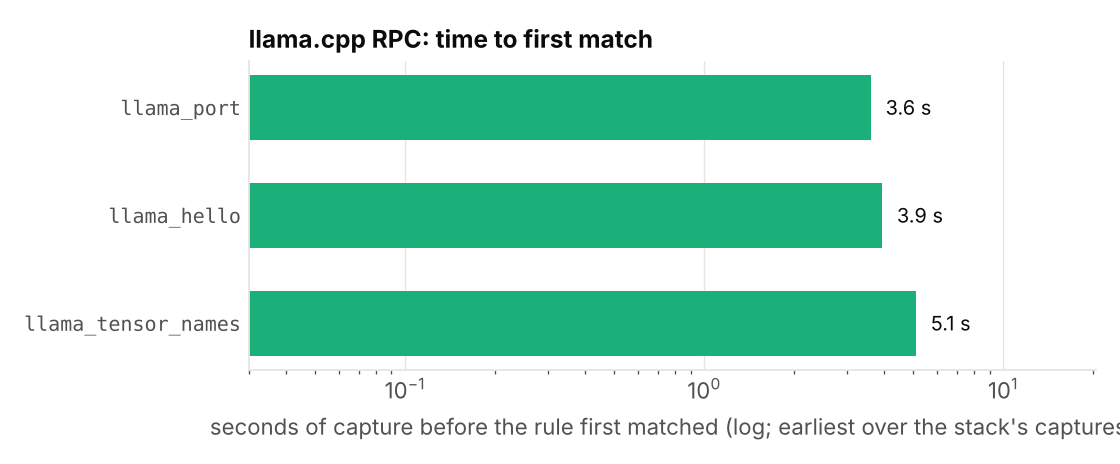
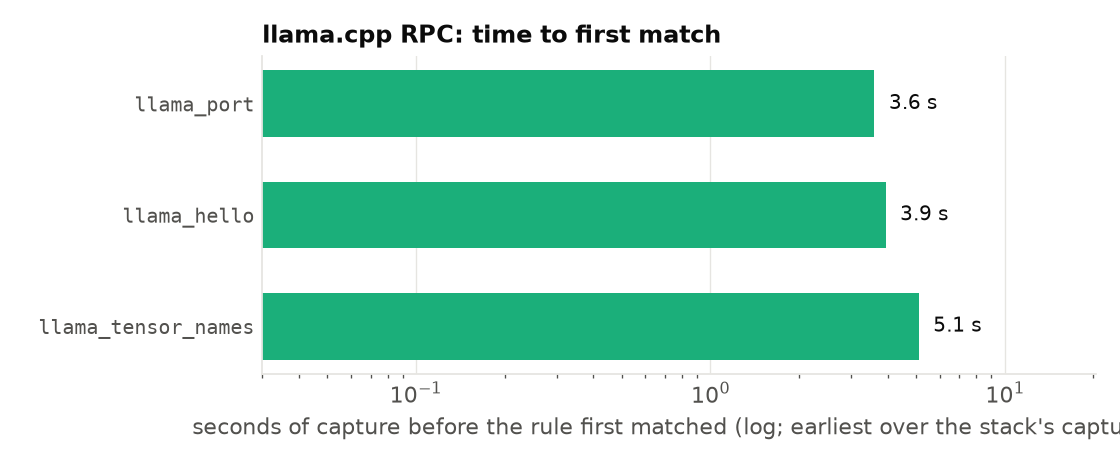
docs: fact correction on referenced data. And updated plots for allignment issues

diff --git a/figures.py b/figures.py
@@ -30,6 +30,7 @@ import matplotlib
 matplotlib.use("Agg")
 import matplotlib.pyplot as plt  # noqa: E402
 from matplotlib.lines import Line2D  # noqa: E402
+from matplotlib.transforms import offset_copy  # noqa: E402
 
 OUT = "figures"
 os.makedirs(OUT, exist_ok=True)
@@ -244,10 +245,19 @@ def flow_rows(stack, r):
             if kind == "elsewhere" or sum(f["payload_ab"] + f["payload_ba"] for f in fl) >= 10_000]
 
 
-def phase_strip(ax, tl, t0, t_end, x0, x1):
-    """Phases as alternating shading with staggered labels above the axes."""
+PHASE_ROW_PT = 11          # height of one row of phase labels above the axes, in points
+
+
+def phase_strip(ax, tl, t0, t_end, x0, x1) -> int:
+    """Phases as alternating shading with horizontal labels above the axes; a label that
+    would run into the one before it goes up a row. Returns the number of rows, so the
+    title can clear them. Call after the layout is settled: it measures rendered text."""
     if not tl:
-        return
+        return 0
+    fig = ax.figure
+    renderer = fig.canvas.get_renderer()
+    base = ax.get_xaxis_transform()
+    row_ends = []              # right edge, in pixels, of the last label in each row
     for i, (t, ph) in enumerate(tl):
         t1 = tl[i + 1][0] if i + 1 < len(tl) else t0 + t_end
         a, b = max(t - t0, x0), min(t1 - t0, x1)
@@ -255,8 +265,14 @@ def phase_strip(ax, tl, t0, t_end, x0, x1):
             continue
         if i % 2 == 0:
             ax.axvspan(a, b, color=SHADE, lw=0, zorder=0)
-        ax.text(a + 0.004 * (x1 - x0), 1.01, ph, transform=ax.get_xaxis_transform(),
-                fontsize=7.5, color=INK2, ha="left", va="bottom", rotation=45)
+        txt = ax.text(a, 1.01, ph, transform=base, fontsize=7.5, color=INK2, ha="left", va="bottom")
+        box = txt.get_window_extent(renderer)
+        row = next((k for k, end in enumerate(row_ends) if box.x0 > end + 4), len(row_ends))
+        if row == len(row_ends):
+            row_ends.append(0)
+        row_ends[row] = box.x1
+        txt.set_transform(offset_copy(base, fig=fig, y=row * PHASE_ROW_PT, units="points"))
+    return len(row_ends)
 
 
 def fig_timeline(stack, stamp, r, tl, name=None, window=None):
@@ -287,11 +303,10 @@ def fig_timeline(stack, stamp, r, tl, name=None, window=None):
         n = len(fl)
         ax.text(-0.01, y, f"{label}  ({n} conn, {tot/1e6:.1f} MB)" if n > 1 else f"{label}  ({tot/1e6:.2f} MB)",
                 ha="right", va="center", fontsize=8.5, color=INK, transform=ax.get_yaxis_transform())
-    phase_strip(ax, tl, t0, r["duration"], x0, x1)
     ax.set_yticks([])
     ax.set_ylim(-0.8, len(rows) - 0.2)
     ax.set_xlim(x0, x1)
-    note = {"exo": "exo nodes speak IPv6 link-local (control) and IPv4 (data), so each node appears under two numbers",
+    note = {"exo": "exo nodes speak IPv6 link-local (control) and IPv4 (data),\nso each node appears under two numbers",
             "llamacpp": "hosts of a restarted or second cluster are numbered (2), (3)",
             "localai": "hosts of the second cluster are numbered (2)"}.get(stack, "")
     ax.set_xlabel("seconds from the start of the capture; thickness ~ log bytes; on data rows | FIN, x RST" + ("\n" + note if note else ""))
@@ -302,6 +317,9 @@ def fig_timeline(stack, stamp, r, tl, name=None, window=None):
     handles = [Line2D([], [], color=STACK[stack], lw=4, label="data plane"), Line2D([], [], color=INK2, lw=4, label="control plane"),
                Line2D([], [], color="#9b9a94", lw=4, label="discovery, DNS, other"), Line2D([], [], color=INK, lw=4, label="off the LAN")]
     fig.legend(handles=handles, loc="lower center", ncol=4, frameon=False, fontsize=8, bbox_to_anchor=(0.5, 0.0))
+    fig.tight_layout(rect=(0, 0.05, 1, 1))
+    rows_used = phase_strip(ax, tl, t0, r["duration"], x0, x1)
+    ax.set_title(ax.get_title(loc="left"), loc="left", fontsize=11, fontweight="bold", pad=8 + PHASE_ROW_PT * rows_used)
     fig.tight_layout(rect=(0, 0.05, 1, 1))
     fig.savefig(f"{OUT}/{name or 'timeline-' + stack}.png", metadata=META)
     plt.close(fig)

diff --git a/README.md b/README.md
@@ -77,9 +77,11 @@ Captures: ten with a swarm, three background. The headline ones are
 `captures/llamacpp/20261030-083513` (600 s idle, kill and pause mid-request),
 `captures/exo/20261028-125140`, `captures/localai/20261029-144115` (DHT off, with
 loopback captures inside the containers) and `captures/localai/20261029-151923` (DHT on),
-and `captures/background/20261028-081447`. Every capture after the first ran with no
+and `captures/background/20261028-081447`. Every capture after the first two ran with no
 kernel drops; the first (`25691027-122003`, a 1.7 GB pcap with tcpdump's default buffer)
-dropped 7% of packets and its byte figures are from TCP sequence accounting.
+dropped 7% of packets and its byte figures are from TCP sequence accounting, and the
+first background run (`20261027-163430`, 55 GB, generators unthrottled) dropped 81% and
+was replaced by the LAN-rate set.
 
 ## 2. Static signatures: how little capture identifies the stack
 
@@ -95,8 +97,8 @@ dropped 7% of packets and its byte figures are from TCP sequence accounting.
 | llama.cpp | `llama_port` | 3.78 | TCP on 50052 |
 | llama.cpp | `llama_hello` | 4.16 (0.5 s after `cluster.sh main`) | the 33-byte HELLO, on the wire as three segments of 1, 8 and 24 bytes |
 | llama.cpp | `llama_tensor_names` | 5.36 | `blk.N.` names in the weight upload |
-| LocalAI | `mdns_libp2p` | 3.89 | an mDNS answer carrying `dnsaddr=/ip4/…/p2p/12D3KooW…` |
-| LocalAI | `libp2p_quic_alpn` | 4.19 | two client QUIC Initials of 1200 B whose ClientHello offers ALPN `libp2p`, no SNI |
+| LocalAI | `mdns_libp2p` | 4.10 | an mDNS answer carrying `dnsaddr=/ip4/…/p2p/12D3KooW…` |
+| LocalAI | `libp2p_quic_alpn` | 4.46 | two client QUIC Initials of 1200 B whose ClientHello offers ALPN `libp2p`, no SNI |
 | LocalAI, DHT on | `libp2p_multistream` | 5.01 | `/multistream/1.0.0` then `/tls` or `/noise`, on TCP to a public peer |
 | background | none of the stack rules | | `mdns` fires and is classed ordinary |
 
@@ -255,7 +257,7 @@ The fifteen predictions in [STUDY.md](STUDY.md), as written before the first cap
 | 5 | llama.cpp identified by the 33-byte HELLO on 50052; frame grammar and tensor names otherwise | HELLO at 4.2 s as 1 + 8 + 24 bytes; grammar and names as predicted; no false positives | right, with a correction of form |
 | 6 | llama.cpp invisible when idle | zero payload on the RPC flows for 600 s | right |
 | 7 | star; ~4 KiB each way per host, ~600 KB logits back from the last host; constant within 5%; rate within 10% | star; 16 KB / 4104 B and 7170 B / 607 752 B; cv 0.0 at the token scale; rate within 3% | right on shape and rate, the small legs 2 to 4 times larger (7 SET_TENSOR per token) |
-| 8 | load moves ~320 MB to each host | 252 MB and 385 MB, the whole file, split unevenly by the tied embedding | right in total, wrong in split |
+| 8 | load moves ~320 MB to each host | 252 MB and 384 MB, the whole file, split unevenly by the tied embedding | right in total, wrong in split |
 | 9 | LocalAI shows the libp2p handshake and nothing readable after; loopback shows llama.cpp unchanged | the tunnels are QUIC: no plaintext multistream on the LAN (it appears only on TCP to DHT peers), but the predicted ClientHello with ALPN `libp2p` and no SNI opens every tunnel, inside two QUIC Initials anyone can decrypt; nothing readable after; llama.cpp unchanged on loopback | right, with a correction of form |
 | 10 | LocalAI's per-token structure equals llama.cpp's plus a constant overhead; decode rate readable | 621 122 B per token on the output-layer worker and 4194 B on the other (+2% each), 30.0 ms against 30.8 ms at the client | right |
 | 11 | LocalAI idle: 10, 20, 60 s periodicities; mDNS with a random label and `/p2p/` TXT | mDNS as predicted, every 23.3 s; the encrypted overlay shows ~1 exchange/s and a weak 6 s peak, not 10/20/60 s | partially |
@@ -350,7 +352,7 @@ and zero jitter; the rhythm rules were not tuned against a real LAN or WAN, and 
 judged per harness phase, which a defender does not have (§6). This would be my next step
 if I take this experiment one step further.
 
-The generation rule manages to clearly separate the swarm from the background noise. It
+The generation rule manages to separate the swarm from the background noise. It
 also fires on exo's 1 Hz status messages and on 33 DHT flows to public peers, neither of
 which is decode (§3, §6). LocalAI is identified as libp2p, not as LocalAI: the mDNS
 records, the ALPN and the DHT traffic are the same as any libp2p application's, and with
